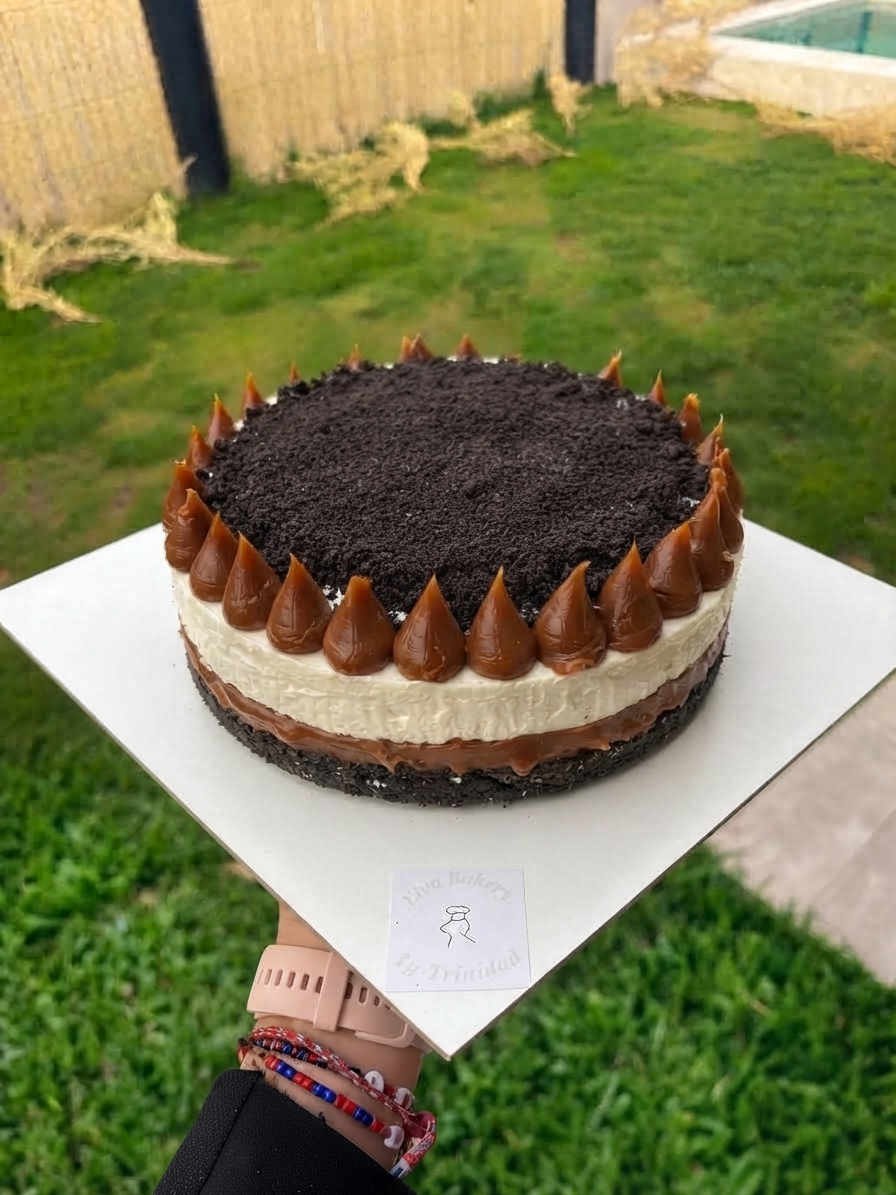
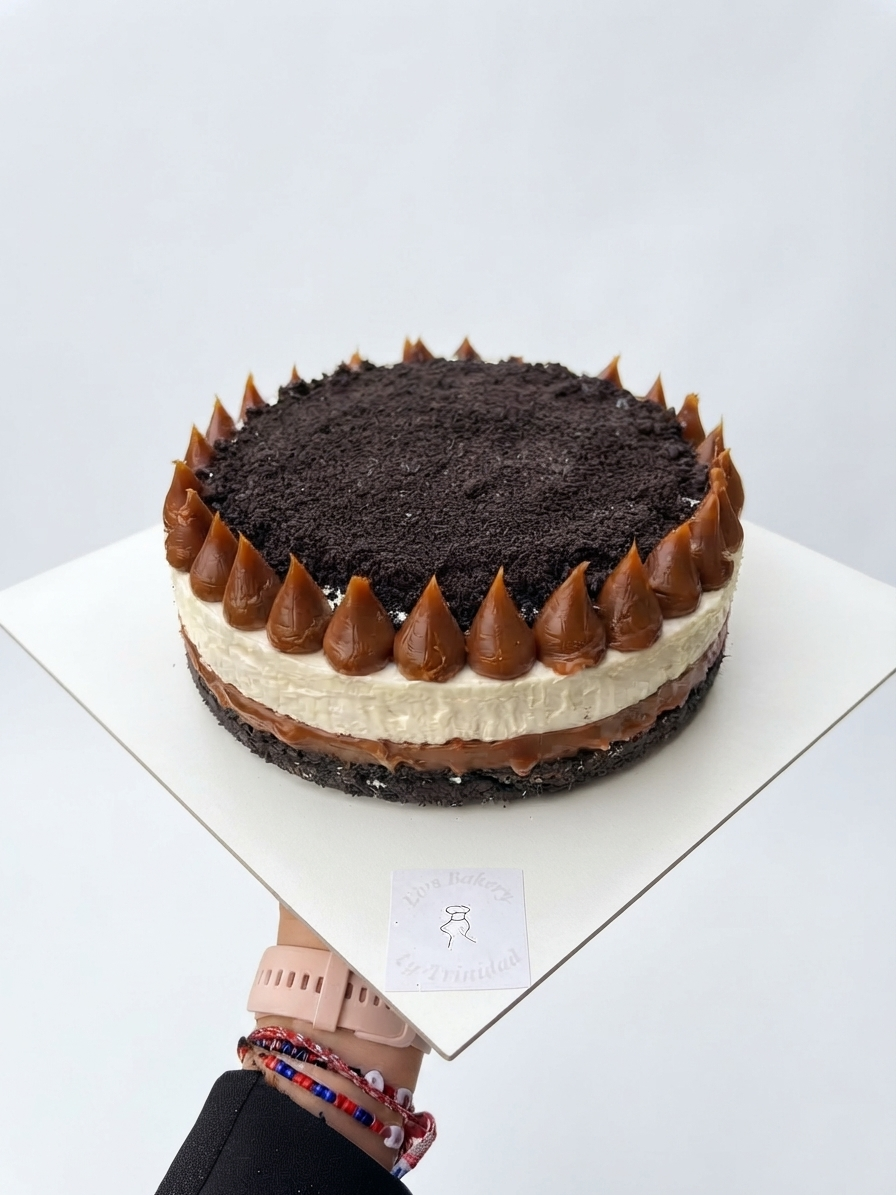
Fondos blancos

diff --git a/frontend/tartas.html b/frontend/tartas.html
@@ -78,8 +78,8 @@
             <article class="torta-card">
 
                 <div class="torta-image">
-                    <img src="static/img/tartas/tartaFrutilla.jpeg"
-                         alt="Cabsha quaker">
+                    <img src="static/img/tartas/tartaFrutilla.png"
+                         alt="Tarta de Frutilla">
                 </div>
 
                 <div class="torta-info">
